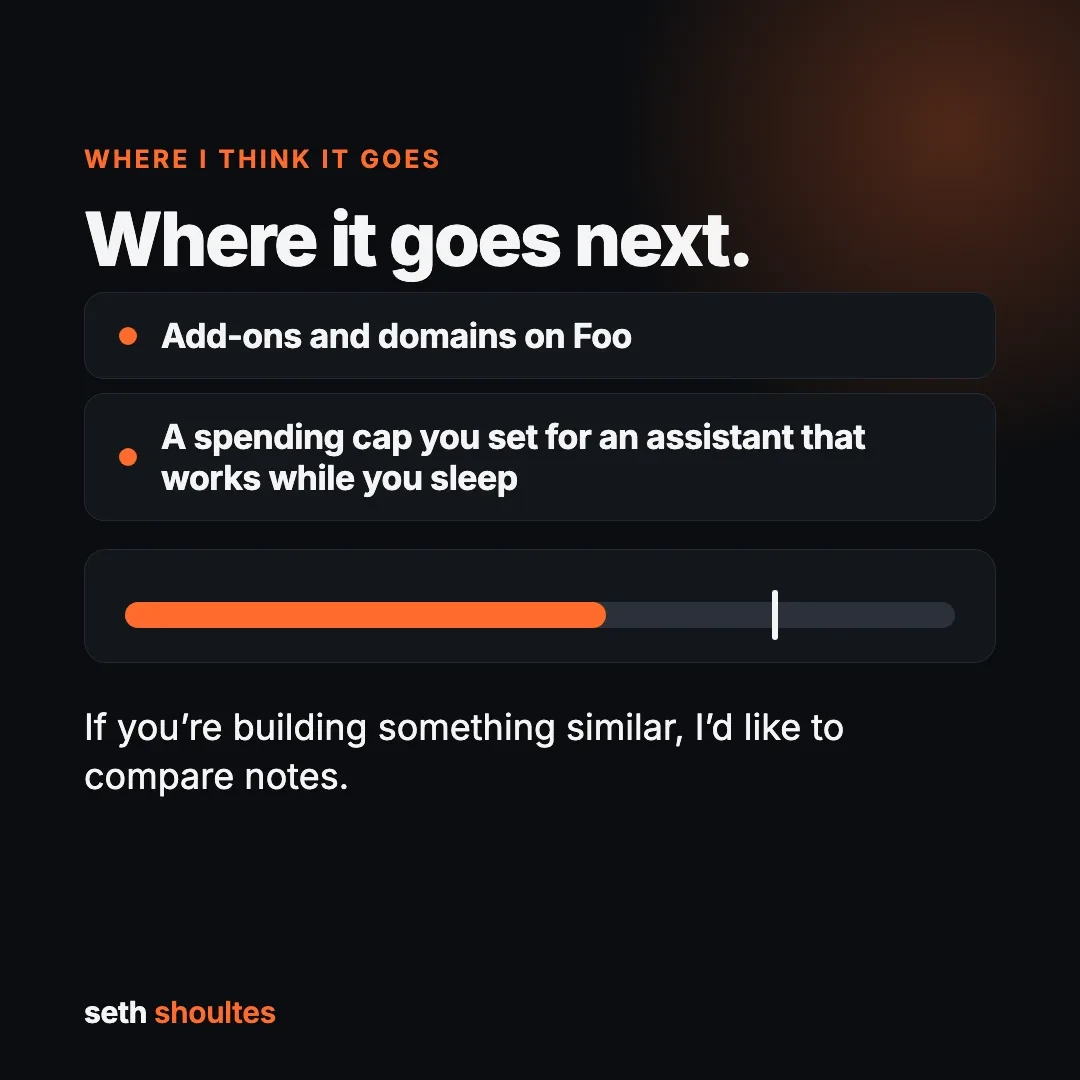
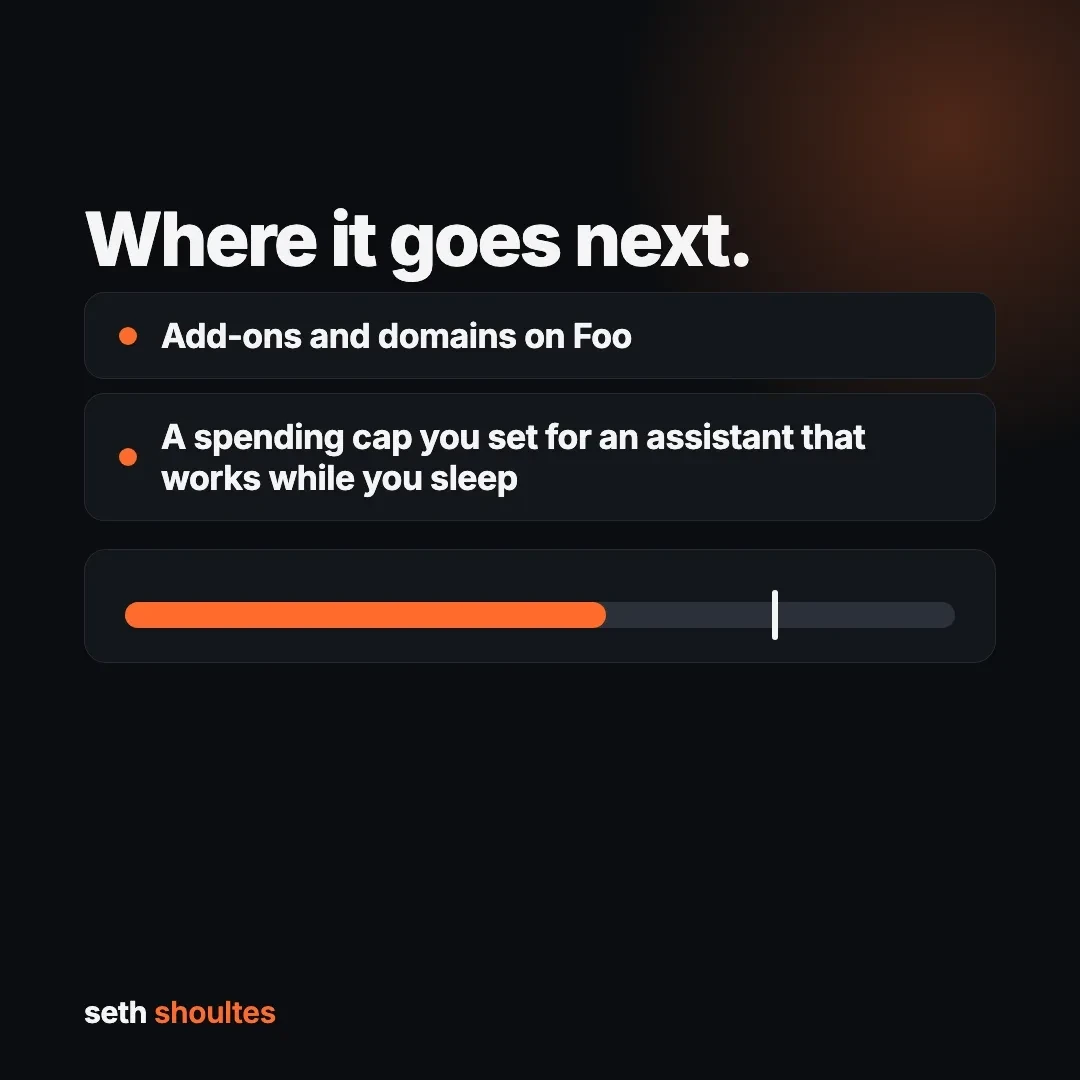
Post: slides drop the section label and the doubled closing line (Refs sethshoultes/sethshoultes.github.io#318)
Designer re-read (7/10): each section stacked its heading, the slide's label
with the same words, then the slide's headline; and slide 4 ended on the same
line as the post. The label band is filled from the clean band above it,
slide 4's closing line is painted out, and the three alts drop the label.

Changed region(s): [[0.0611, 0.6417, 0.7944, 0.7333], [0.0611, 0.1222, 0.4278, 0.1528]]

diff --git a/_posts/2026-11-24-agent-checkout-builders-notes.html b/_posts/2026-11-24-agent-checkout-builders-notes.html
@@ -14,13 +14,13 @@ hero_image:
 
 <h2>The rule I started with</h2>
 
-<img class="post-img" src="/blog/images/agent-checkout-slide-1.webp" width="1080" height="1080" alt="The rule I started with: the assistant never holds a card. Three steps: the assistant makes a Stripe Checkout, you see the price on Stripe&#x27;s page, you pay there. The price comes from the site&#x27;s own settings, never from what the assistant typed." loading="lazy">
+<img class="post-img" src="/blog/images/agent-checkout-slide-1.webp" width="1080" height="1080" alt="The assistant never holds a card. Three steps: the assistant makes a Stripe Checkout, you see the price on Stripe&#x27;s page, you pay there. The price comes from the site&#x27;s own settings, never from what the assistant typed." loading="lazy">
 
 <p>The assistant never holds a card. Ever. When it wants to buy something, it creates a Stripe Checkout session on the server and hands the person the link. The person sees the price on Stripe's page and pays there. The price comes from the site's own settings, never from whatever the assistant typed. That one rule made everything else simpler, and it meant I could test with real people in the loop from day one.</p>
 
 <h2>What I built, and what's proven</h2>
 
-<img class="post-img" src="/blog/images/agent-checkout-slide-2.webp" width="1080" height="1080" alt="What I built, and what&#x27;s proven: three worked and one isn&#x27;t built yet. S&#x27;mores, a holiday pack paid with a test card; Garage Door Science, a diagnosis that became a $49 test deposit; Foo, ask your assistant to upgrade to Pro; Membership MCP, not built yet." loading="lazy">
+<img class="post-img" src="/blog/images/agent-checkout-slide-2.webp" width="1080" height="1080" alt="Three worked and one isn&#x27;t built yet. S&#x27;mores, a holiday pack paid with a test card; Garage Door Science, a diagnosis that became a $49 test deposit; Foo, ask your assistant to upgrade to Pro; Membership MCP, not built yet." loading="lazy">
 
 <p>Everything below ran in Stripe's test mode. No real money has moved yet.</p>
 
@@ -33,7 +33,7 @@ hero_image:
 
 <h2>What surprised me</h2>
 
-<img class="post-img" src="/blog/images/agent-checkout-slide-3.webp" width="1080" height="1080" alt="What surprised me: the hard part wasn&#x27;t payments. It was everything around checkout: an assistant can&#x27;t invent a price, a receipt can&#x27;t be faked by asking twice, and a refund has a human path." loading="lazy">
+<img class="post-img" src="/blog/images/agent-checkout-slide-3.webp" width="1080" height="1080" alt="The hard part wasn&#x27;t payments. It was everything around checkout: an assistant can&#x27;t invent a price, a receipt can&#x27;t be faked by asking twice, and a refund has a human path." loading="lazy">
 
 <p>The hard part wasn't payments. Stripe's hosted checkout does the heavy lifting. The hard part was everything around it: making sure an assistant can't invent a price, that a receipt can't be faked by asking twice, and that a refund has a human path.</p>
 
